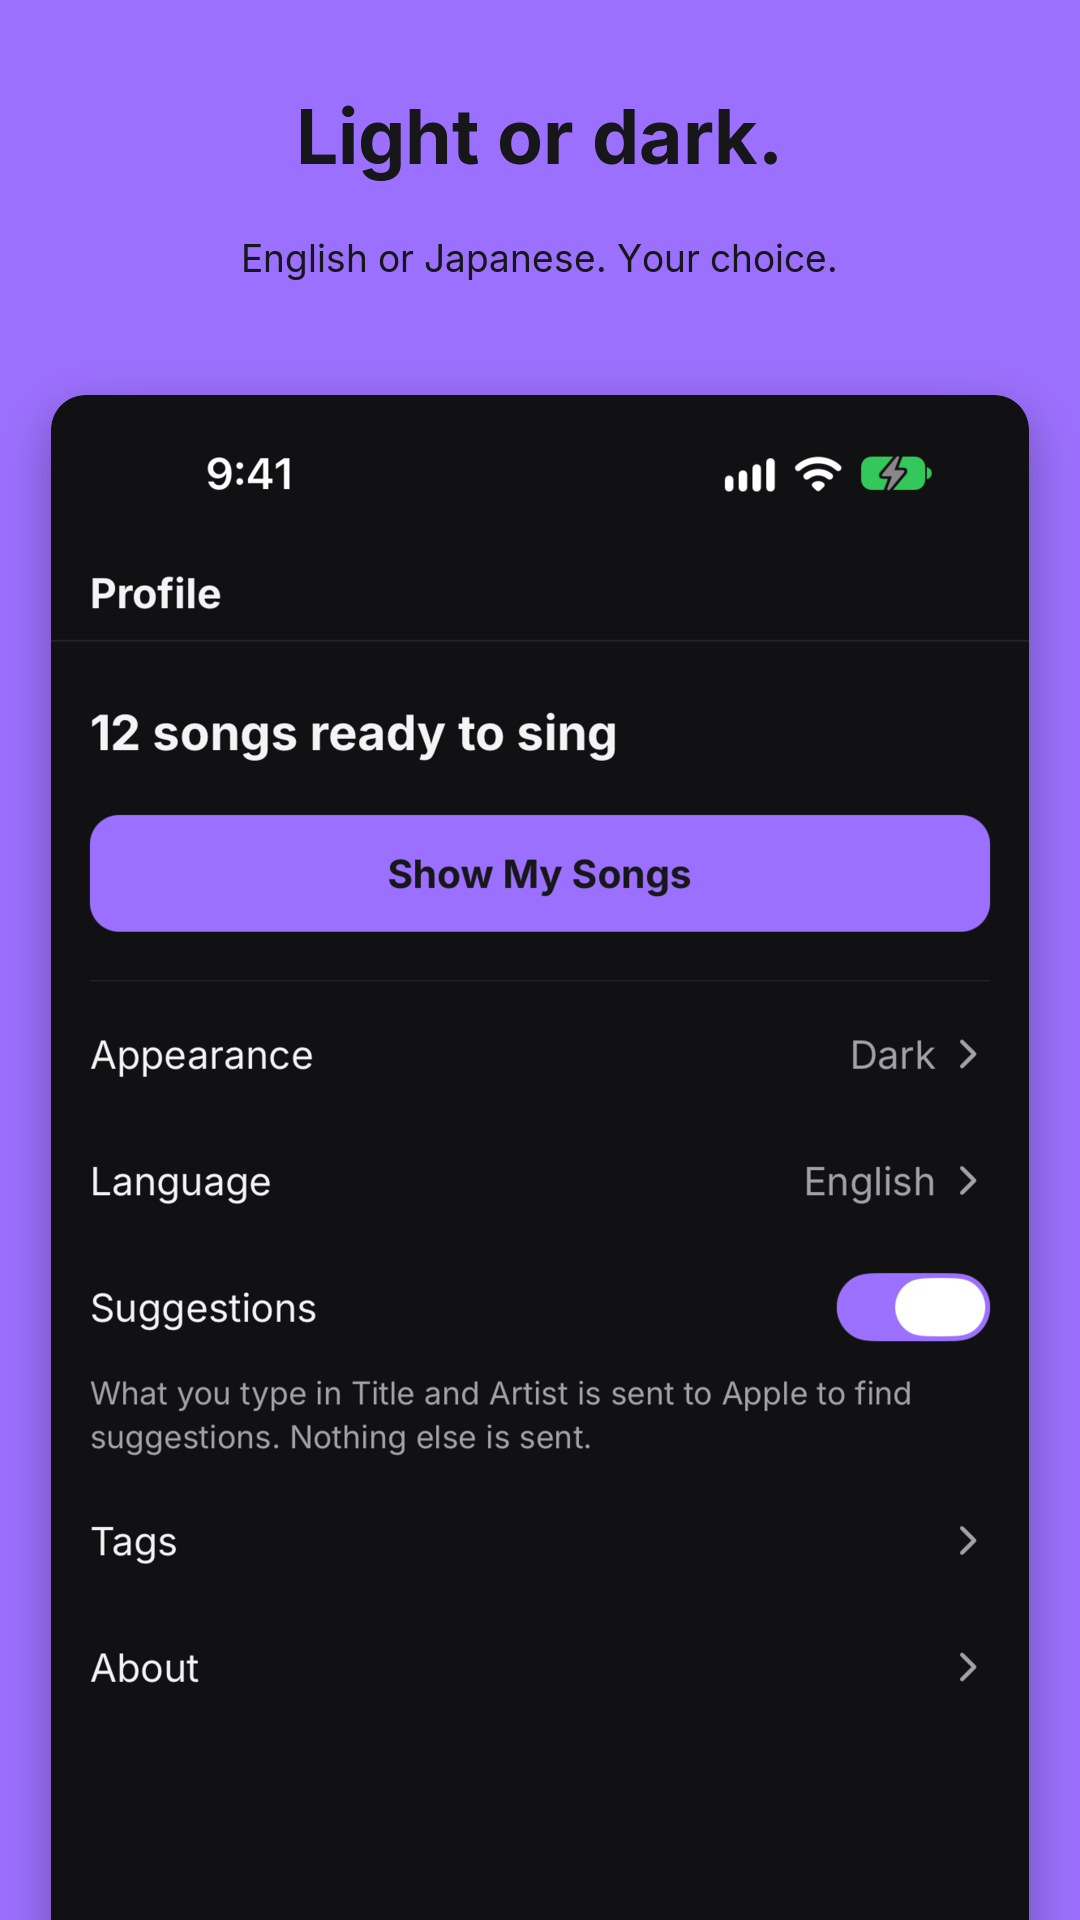
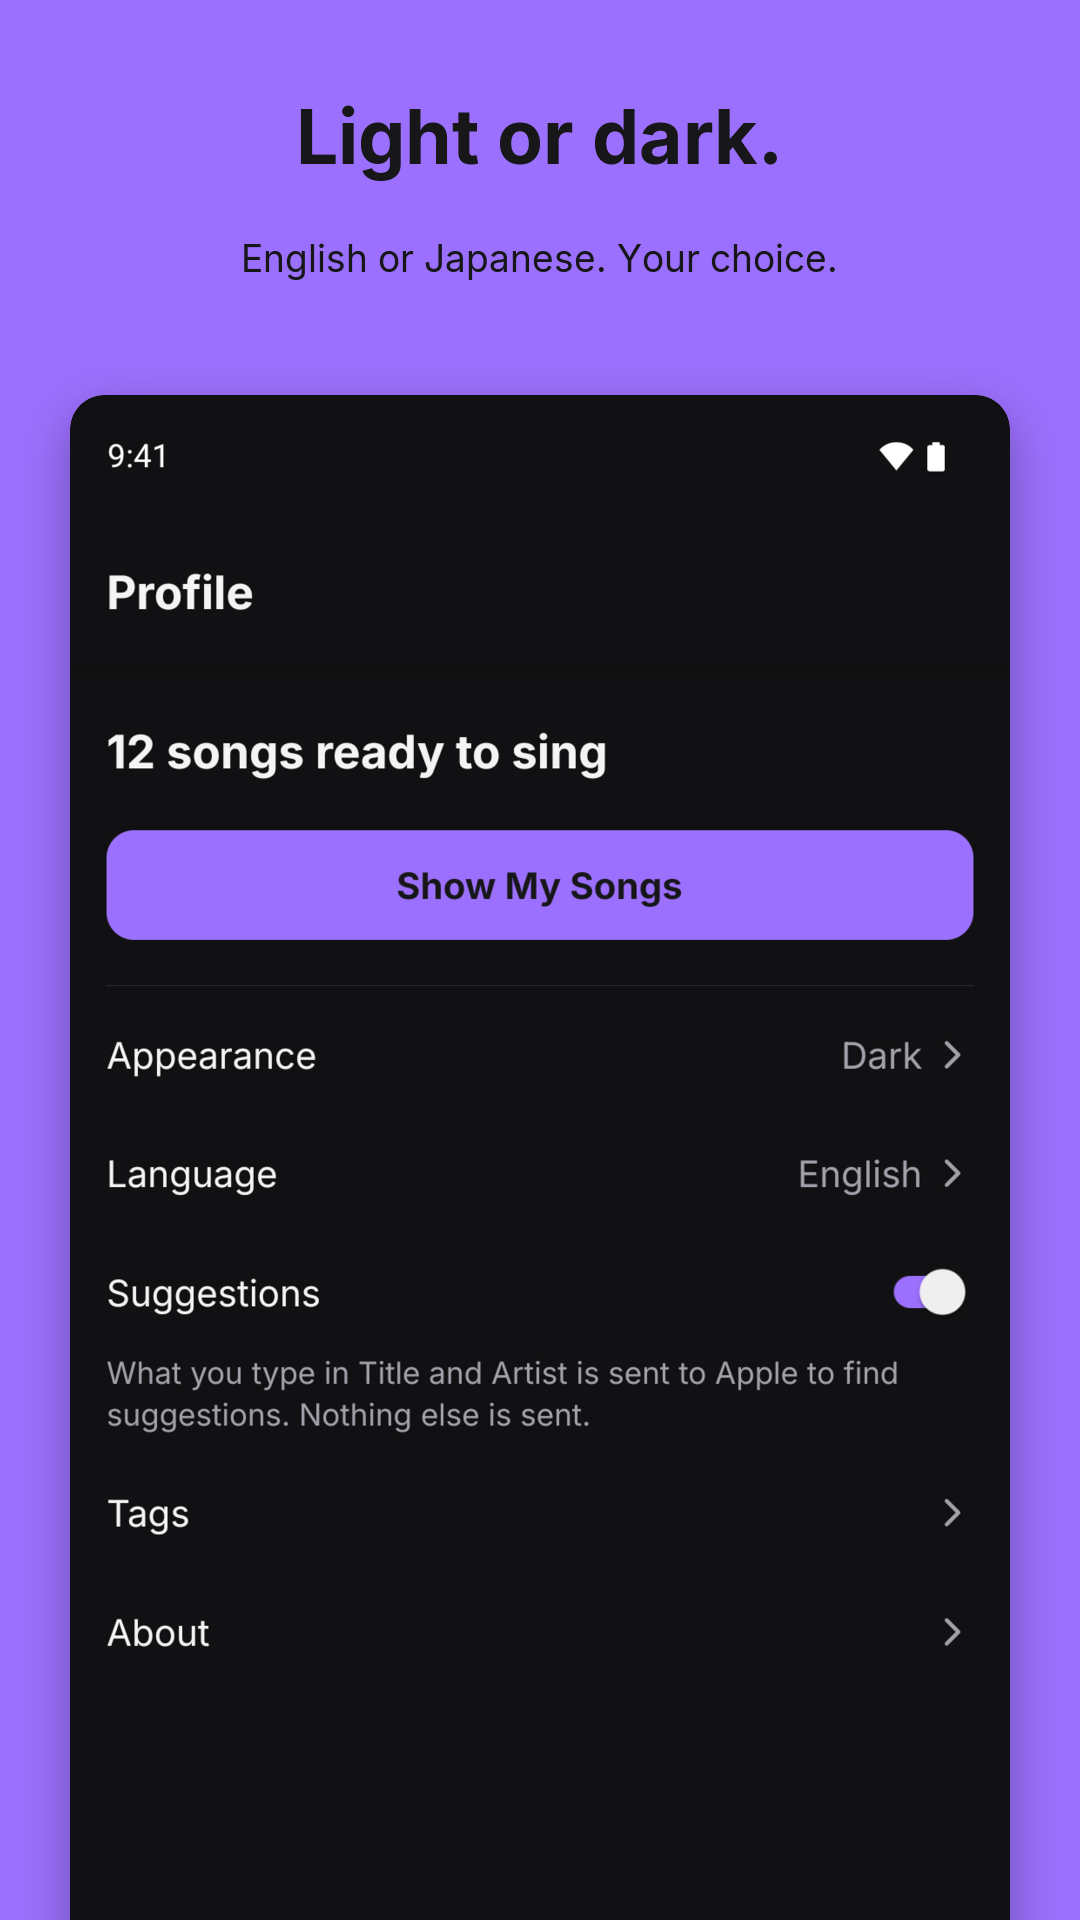
[feat] Play用のスクリーンショットをAndroidエミュレータの画像から作り直し、切り口を余白に合わせる。撮影用の入力値と架空名の確認スクリプトを追加

Changed region(s): [[0.0306, 0.1875, 0.9778, 1.0], [0.6722, 0.2188, 0.8861, 0.2812], [0.1833, 0.2188, 0.275, 0.25]]

diff --git a/scripts/store-screenshots/seed.py b/scripts/store-screenshots/seed.py
@@ -1,16 +1,19 @@
 #!/usr/bin/env python3
-"""ストア用スクリーンショットを撮るための、仮名のデータをシミュレータのDBへ入れる。
+"""ストア用スクリーンショットを撮るための、仮名のデータを、シミュレータ・エミュレータのDBへ入れる。
 
 使い方: python3 seed.py <en|ja> <DBのパス> [light|dark] [on|off]
 
 第4引数は候補（Suggestions）の設定。Add Song の撮影では、入力した曲名が Apple へ送られないよう off にする。
 
 - アプリを止めてから実行する（実行のあと、アプリを起動し直す）。
-- 曲・タグ・設定を、全部入れ替える（撮影用のシミュレータ専用。実際のデータがあるDBに使わない）。
+- 曲・タグ・設定を、全部入れ替える（撮影用の端末専用。実際のデータがあるDBに使わない）。
 - 曲名・アーティスト名は、すべて架空。審査で第三者の素材（5.2.1）を指摘されないため、実在の
-  アーティストを使わない。足すときは、Apple の検索 API（entity=musicArtist）で、同じ名前の
-  アーティストが居ないことを確かめる（`docs/singfolio-store-listing.md`「スクリーンショット」）。
-- `updated_at` は実行時刻からの経過で決める（Songsの並び順・Practiceの「Last updated」に出る）。
+  アーティストを使わない。足すときは、`check_names.py` で、同じ名前のアーティストが居ないことを
+  確かめる（架空のつもりの名前が、実在した例が多い）。曲名は、短い一般的な語の組み合わせなので、
+  実在の曲と偶然一致してもよい（保護されず、架空のアーティストと組み合わせて出るため）。
+- `updated_at` は実行時刻からの経過で決める。Practice の「Last updated」の日付は、撮った日で変わる
+  ので、English・日本語の6枚は、同じ日に撮る。
+- Add Song の画面は、DBでは作れないので、撮影のとき、`ADD_SONG` の値を、手で入力する（保存はしない）。
 """
 import sqlite3
 import sys
@@ -64,6 +67,26 @@ SONGS = {
 }
 
 
+# Add Song の撮影で、入力する値（保存しない）。キーは「半音を上げる」の回数、タグは既存のタグから選ぶ。
+# check_names.py の対象。
+ADD_SONG = {
+    'en': {
+        'title': 'Moonlit Ferry',
+        'artist': 'Kit Ravenne',
+        'key': 2,
+        'tags': ['Acoustic', 'Ballad'],
+        'note': 'Slow down at the bridge.',
+    },
+    'ja': {
+        'title': '月明かりの渡し船',
+        'artist': 'ともしびの庭',
+        'key': 2,
+        'tags': ['弾き語り', 'バラード'],
+        'note': 'ゆっくりやさしく',
+    },
+}
+
+
 def main() -> None:
     language, db_path = sys.argv[1], sys.argv[2]
     appearance = sys.argv[3] if len(sys.argv) > 3 else 'light'
@@ -102,4 +125,5 @@ def main() -> None:
     print(f'seeded {len(SONGS[language])} songs ({language}, {appearance}, suggestions {suggestions})')
 
 
-main()
+if __name__ == '__main__':
+    main()

diff --git a/scripts/store-screenshots/check_names.py b/scripts/store-screenshots/check_names.py
@@ -1,0 +1,62 @@
+#!/usr/bin/env python3
+"""撮影用の架空のアーティスト名が、実在していないことを、Apple の検索 API で確かめる。
+
+使い方: python3 check_names.py [en|ja]   （省略すると両方）
+
+`seed.py` の曲のアーティストと、`ADD_SONG` のアーティストを、`entity=musicArtist` で検索する
+（English は米国ストア、日本語は日本ストア）。名前が同じ（空白・大文字小文字・全角半角を除いて）
+アーティストが見つかったら、その名前を出して、終了コード 1 で終わる。部分一致（名前を含む・名前に
+含まれる）は、参考として出す（実在の別のアーティストの名前の一部のことがある）。
+
+検索 API は、続けて呼ぶと 429 を返すので、5秒あけ、429 のときは待って、やり直す。
+外へ送るのは、この名前だけ。
+"""
+import json
+import sys
+import time
+import unicodedata
+import urllib.error
+import urllib.parse
+import urllib.request
+
+from seed import ADD_SONG, SONGS
+
+COUNTRY = {'en': 'US', 'ja': 'JP'}
+
+
+def norm(text: str) -> str:
+    return unicodedata.normalize('NFKC', text).lower().replace(' ', '').replace('　', '')
+
+
+def search(term: str, country: str) -> list[dict]:
+    query = urllib.parse.urlencode({'term': term, 'country': country, 'entity': 'musicArtist', 'limit': 10})
+    for attempt in range(4):
+        try:
+            with urllib.request.urlopen('https://itunes.apple.com/search?' + query, timeout=20) as response:
+                return json.load(response)['results']
+        except urllib.error.HTTPError as error:
+            if error.code != 429:
+                raise
+            time.sleep(20 * (attempt + 1))
+    raise RuntimeError('rate limited')
+
+
+def main() -> int:
+    languages = sys.argv[1:] or ['en', 'ja']
+    found = False
+    for language in languages:
+        artists = sorted({song[1] for song in SONGS[language]} | {ADD_SONG[language]['artist']})
+        for name in artists:
+            results = search(name, COUNTRY[language])
+            exact = [r['artistName'] for r in results if norm(r['artistName']) == norm(name)]
+            near = [r['artistName'] for r in results if norm(r['artistName']) != norm(name)
+                    and (norm(name) in norm(r['artistName']) or norm(r['artistName']) in norm(name))]
+            status = 'EXISTS' if exact else 'ok'
+            found = found or bool(exact)
+            print(f'{language} {status:6} {name}' + (f'  exact={exact[:2]}' if exact else '') + (f'  near={near[:2]}' if near else ''), flush=True)
+            time.sleep(5)
+    return 1 if found else 0
+
+
+if __name__ == '__main__':
+    sys.exit(main())

diff --git a/scripts/store-screenshots/find_cut.py b/scripts/store-screenshots/find_cut.py
@@ -1,0 +1,42 @@
+#!/usr/bin/env python3
+"""撮影画像の、縦に切る位置（px）を決める。compose.sh（Play 用）が使う。
+
+使い方: python3 find_cut.py <画像> <今の大きさで見えている縦の長さ(px)>
+
+見えている長さの付近で、横一列がほぼ一色の行（ボタンや行の隙間・余白）が続く帯を探し、その中心を
+出力する。切り口が、ボタン・チップ・曲の行の途中に当たらないようにするため。見つからなければ、
+何も出力しない（compose.sh は、そのまま切る）。探す範囲は、見えている長さの 93%〜115%。
+"""
+import subprocess
+import sys
+
+MIN_BAND = 28      # 帯の最小の高さ（px。1080幅の撮影画像のとき）。行の中の行間（15〜24px）ではなく、行やボタンの間（30px以上）に当てる
+TOLERANCE = 2      # 一色とみなす、明るさ（0〜255）の最大の差。ほぼ白のボタンの背景（#F7F7F8 は白と 8 違う）を、余白と見なさない
+
+
+def main() -> None:
+    path, visible = sys.argv[1], float(sys.argv[2])
+    width, height = map(int, subprocess.run(
+        ['magick', 'identify', '-format', '%w %h', path], capture_output=True, text=True, check=True).stdout.split())
+    gray = subprocess.run(
+        ['magick', path, '-alpha', 'off', '-colorspace', 'Gray', '-depth', '8', 'gray:-'],
+        capture_output=True, check=True).stdout
+    low, high = int(visible * 0.93), min(height - 1, int(visible * 1.15))
+
+    # 一色の行が MIN_BAND 以上続く帯を集める。
+    bands, start = [], None
+    for y in range(low, high + 1):
+        row = gray[y * width:(y + 1) * width]
+        flat = max(row) - min(row) <= TOLERANCE
+        if flat and start is None:
+            start = y
+        if (not flat or y == high) and start is not None:
+            end = y if flat else y - 1
+            if end - start + 1 >= MIN_BAND:
+                bands.append((start + end) // 2)
+            start = None
+    if bands:
+        print(min(bands, key=lambda center: abs(center - visible)))
+
+
+main()
